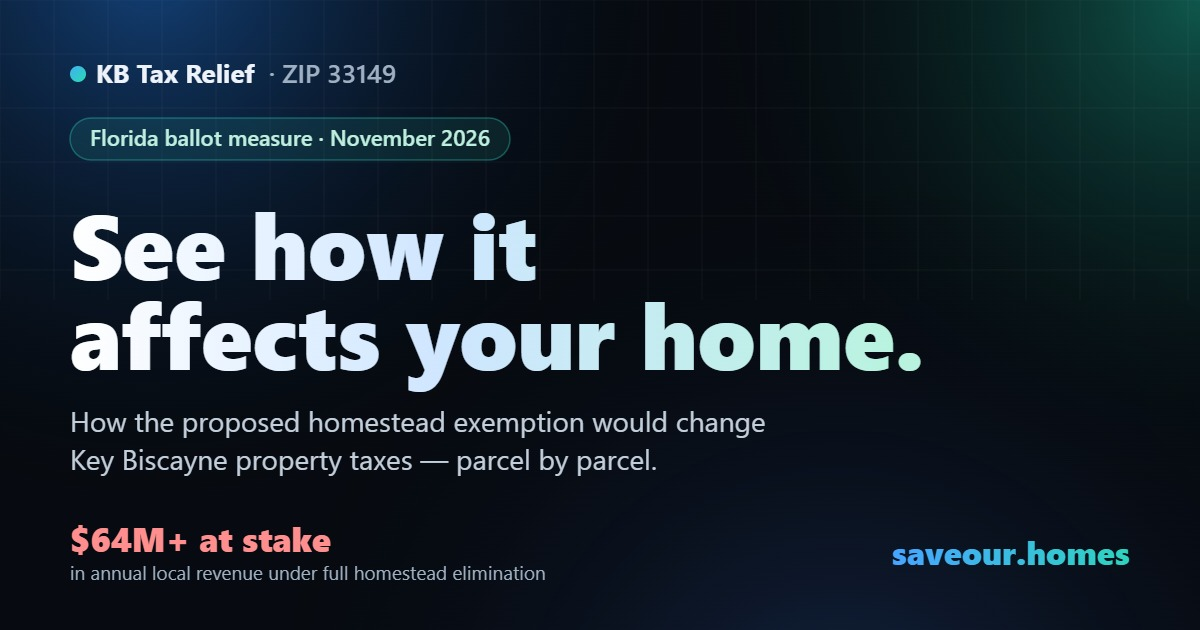
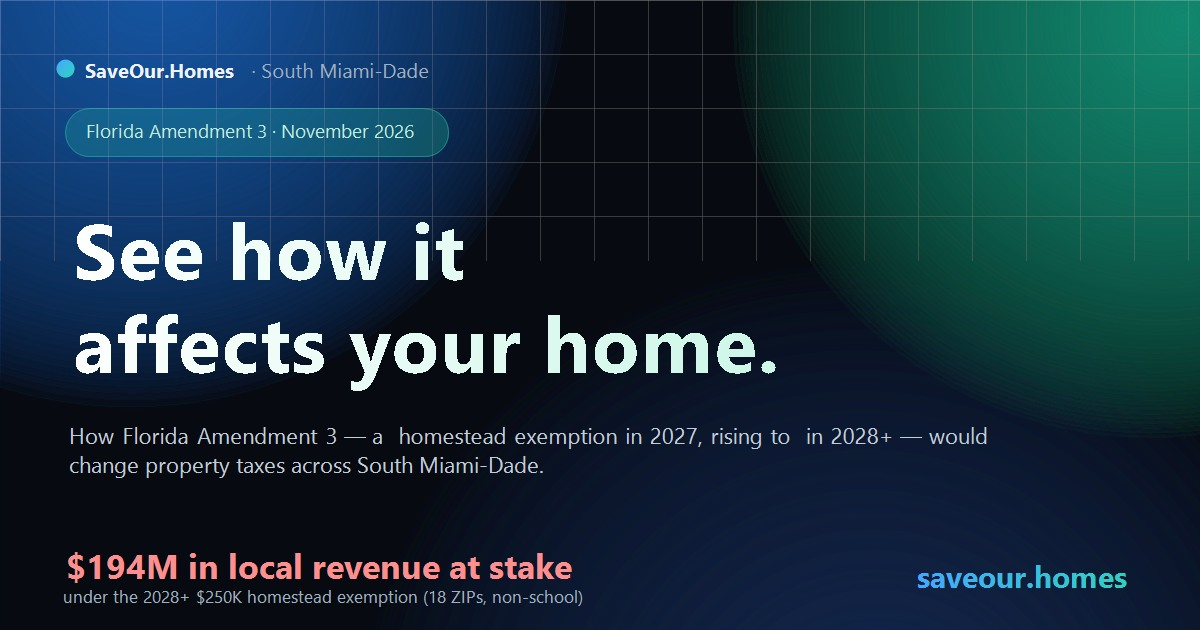
Refresh landing page + regenerate social OG image for Amendment 3
- Splash fallback stats now show current numbers (2026 / 217,178 parcels
  / 118,076 homesteads / 18 ZIPs) instead of stale KB-only figures — used
  when summary.js hasn't loaded yet, and the JS overrides them from
  summary at runtime.
- Adds a fourth "ZIP codes" stat card.
- New og.jpg rendered via scripts/gen_og.ps1 (PowerShell + System.Drawing)
  with Amendment-3 copy: "See how it affects your home." headline,
  "$194M in local revenue at stake under the 2028+ $250K homestead
  exemption" hook, "Florida Amendment 3 · November 2026" eyebrow.

diff --git a/dashboard/index.html b/dashboard/index.html
@@ -185,9 +185,10 @@
             <span class="cta-sub">Free · no sign-up · public data</span>
           </div>
           <div class="stats reveal" id="stats" style="animation-delay:.36s">
-            <div class="stat"><div class="v">2025</div><div class="k">Certified roll</div></div>
-            <div class="stat"><div class="v">7,431</div><div class="k">Parcels analyzed</div></div>
-            <div class="stat"><div class="v">2,892</div><div class="k">Homesteads</div></div>
+            <div class="stat"><div class="v">2026</div><div class="k">Certified roll</div></div>
+            <div class="stat"><div class="v">217,178</div><div class="k">Parcels analyzed</div></div>
+            <div class="stat"><div class="v">118,076</div><div class="k">Homesteads</div></div>
+            <div class="stat"><div class="v">18</div><div class="k">ZIP codes</div></div>
           </div>
         </div>
 
@@ -277,6 +278,7 @@
           { v: S.roll_year, k: "Certified roll" },
           { v: f0(S.counts.parcels), k: "Parcels analyzed" },
           { v: f0(S.counts.homestead), k: "Homesteads" },
+          { v: (S.zips && S.zips.length) || "—", k: "ZIP codes" },
         ].map(s => `<div class="stat"><div class="v">${s.v}</div><div class="k">${s.k}</div></div>`).join("");
 
         const sc = S.scenarios_at_default_millage;
